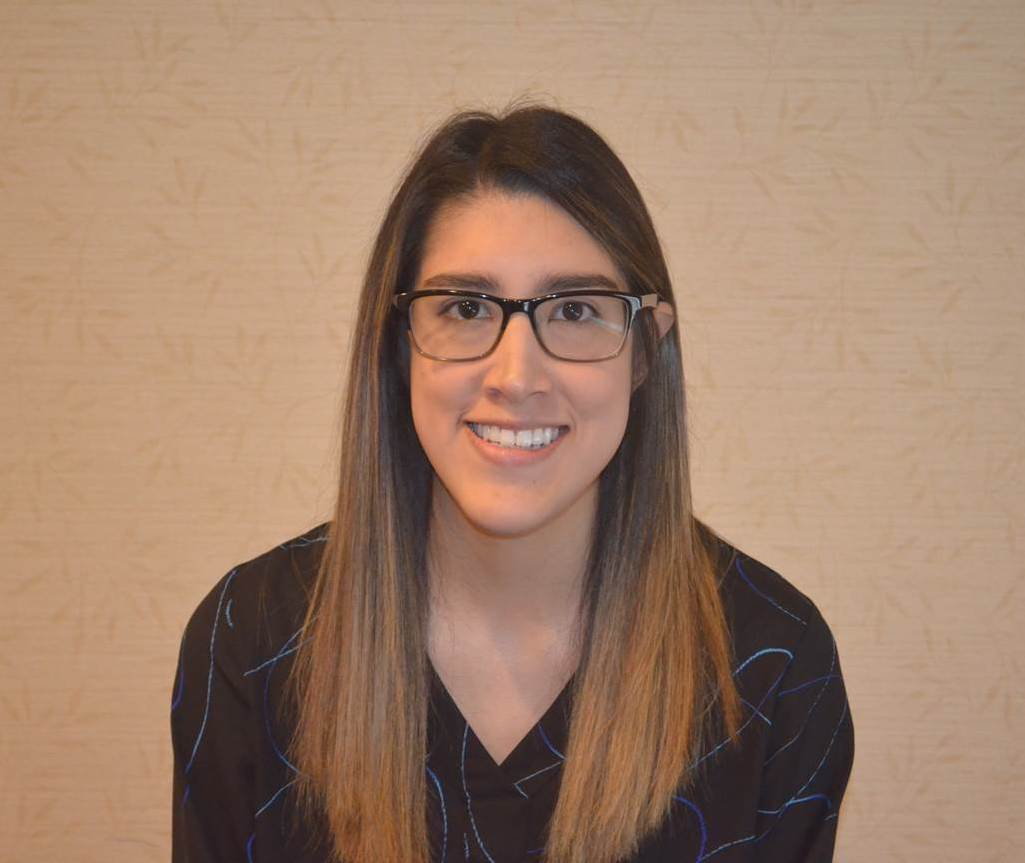
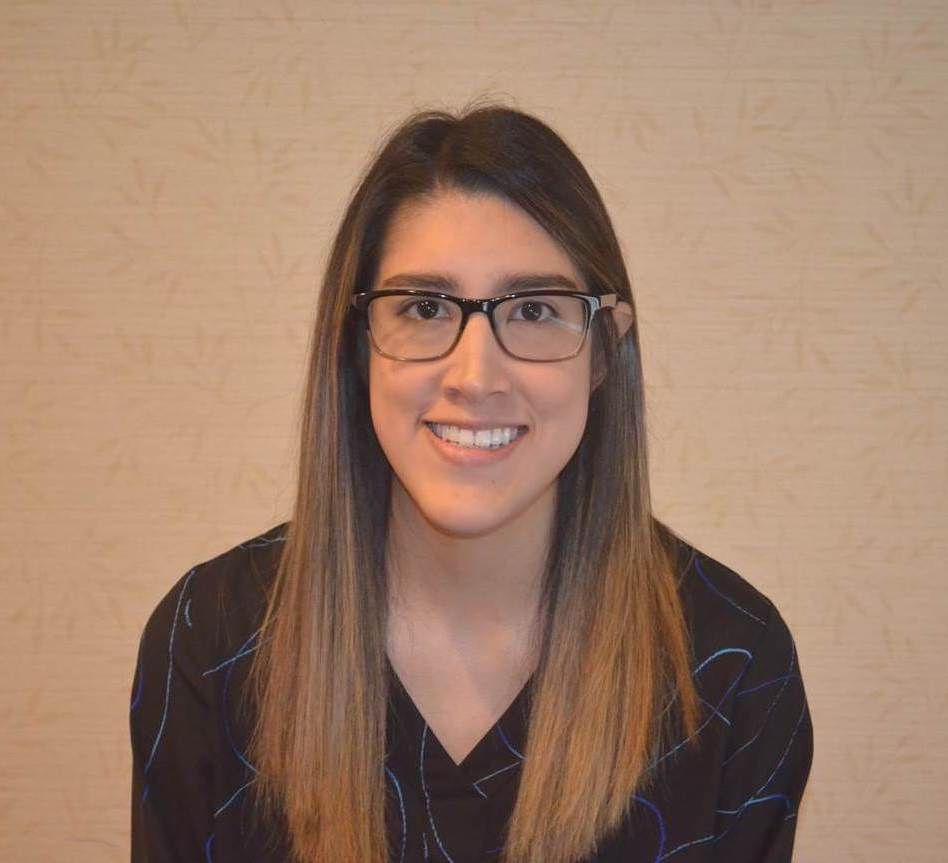
adjusted size and added css styles for profile pic

diff --git a/personal_portfolio/pages/index.js b/personal_portfolio/pages/index.js
@@ -13,7 +13,7 @@ export default function Home() {
       <main className={styles.main}>
         <div>
           <h1 className={styles.title}>Selina Duran</h1>
-          <img src="/img/ProfilePic.jpeg" alt="profile pic"/>
+          <img className={styles.profilepic} src="/img/ProfilePic.jpeg" alt="profile pic"/>
           <h2>Hi there! I'm Selina. Welcome to my tech corner!</h2>
           <p>personal site links (github/linkedin) would go here</p>
         </div>

diff --git a/personal_portfolio/styles/Home.module.css b/personal_portfolio/styles/Home.module.css
@@ -108,6 +108,12 @@
   margin-left: 0.5rem;
 }
 
+.profilepic {
+  height: 230px;
+  width: 230px;
+  border-radius: 50%;
+}
+
 @media (max-width: 600px) {
   .grid {
     width: 100%;
